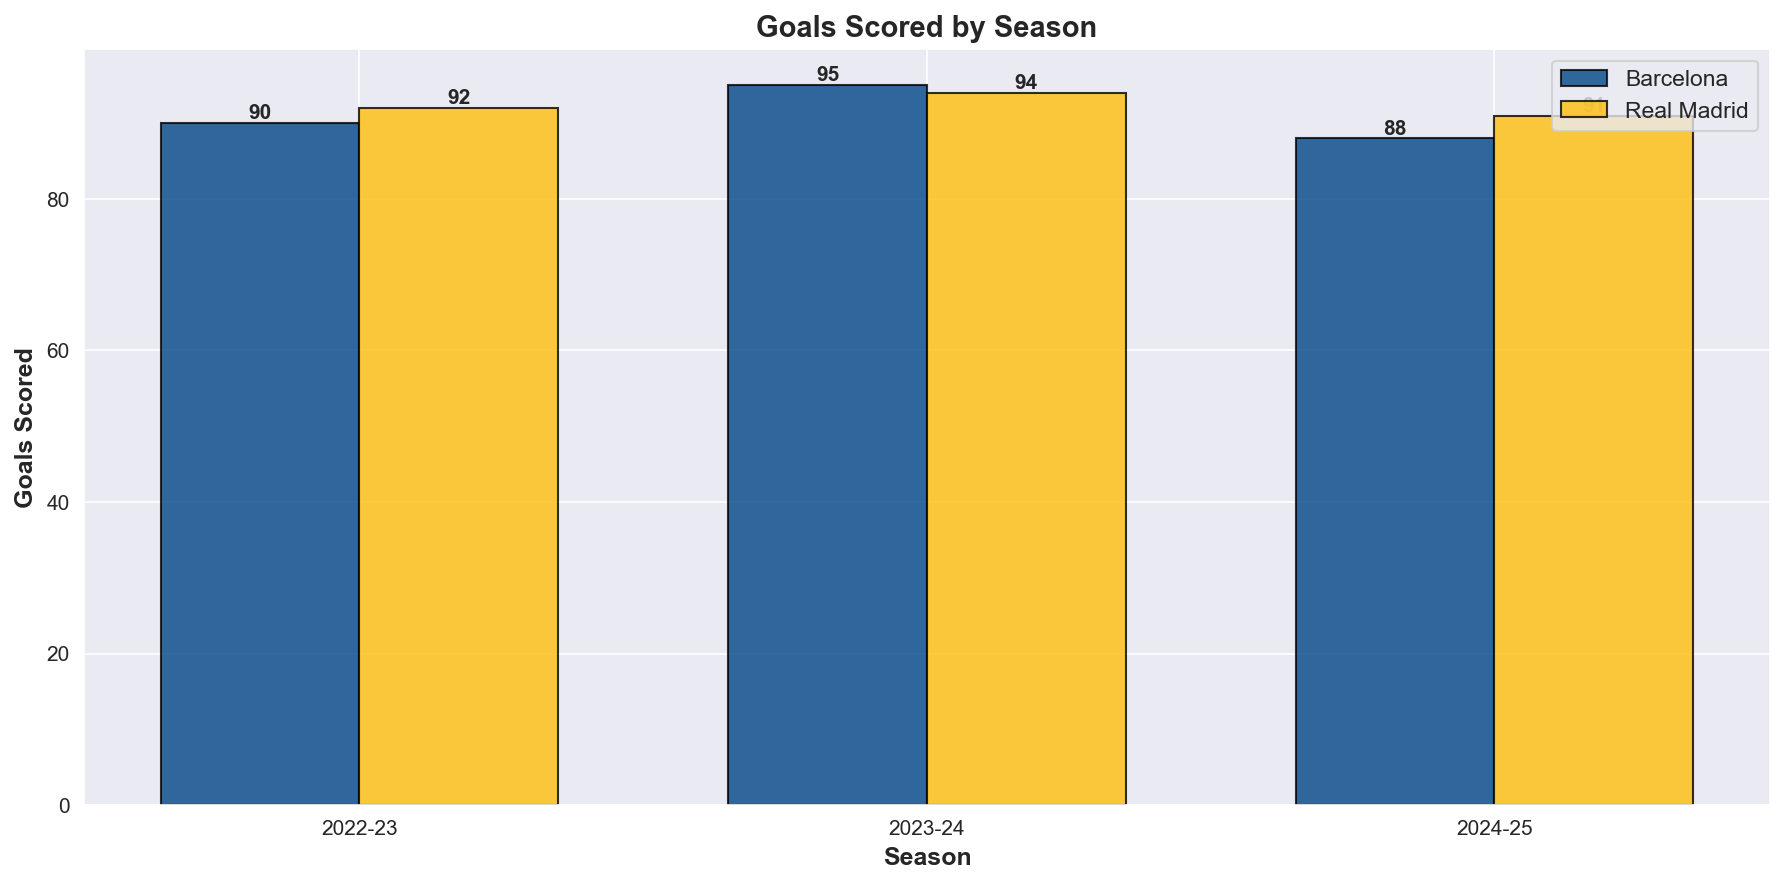
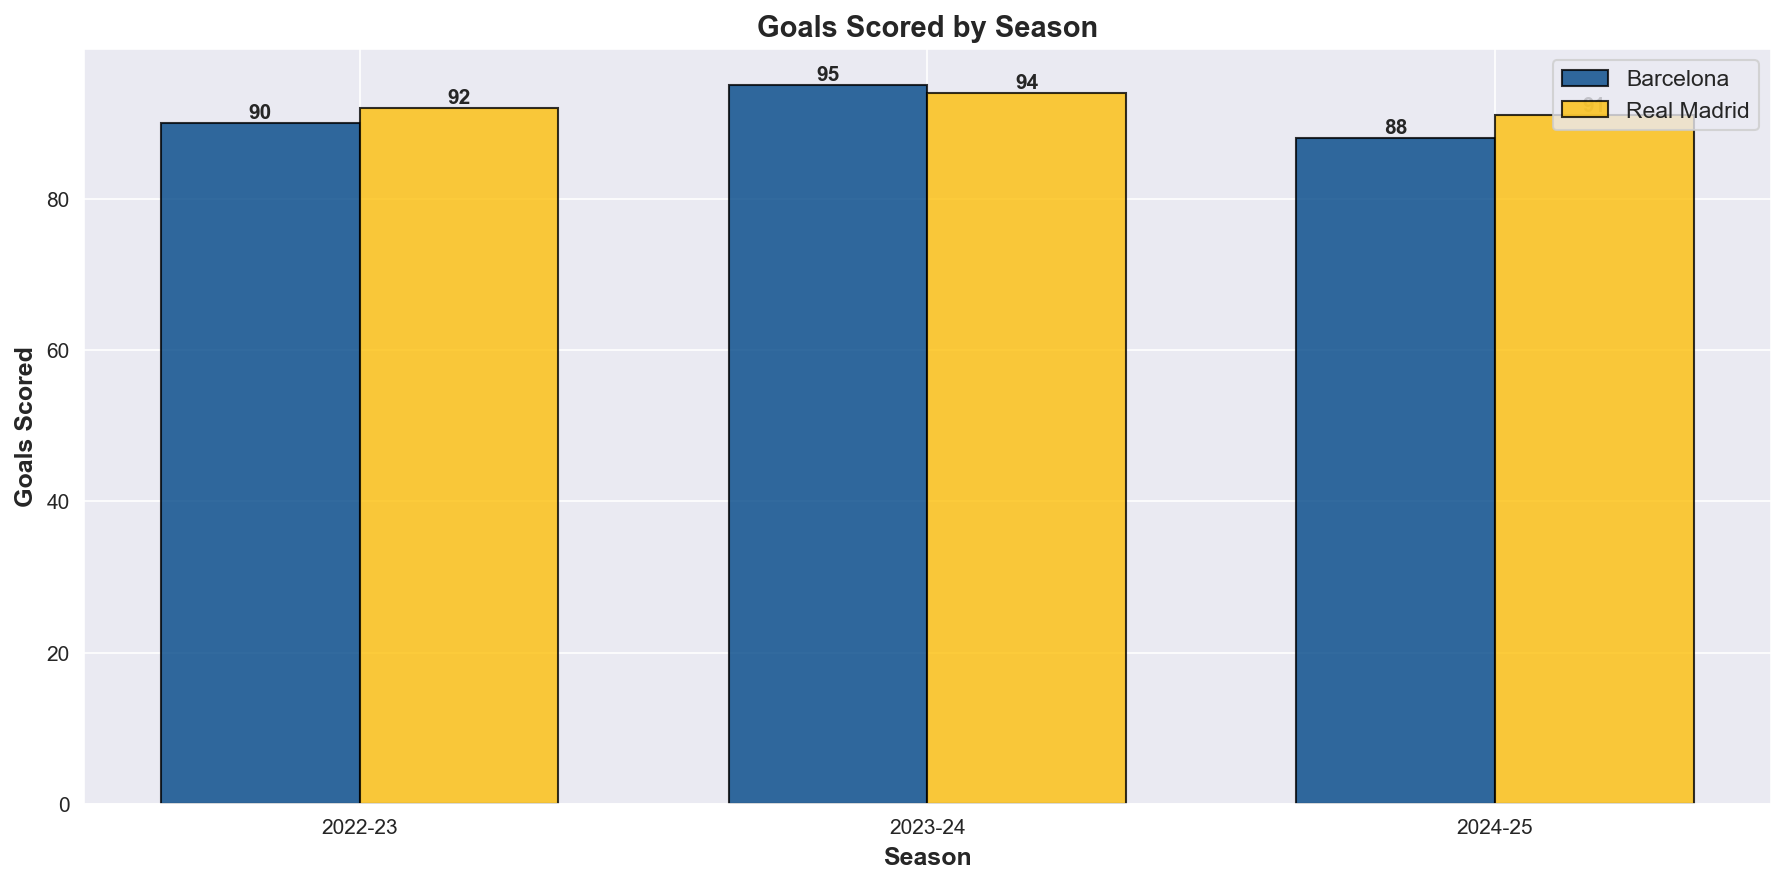
main func

diff --git a/run_analysis.py b/run_analysis.py
@@ -4,6 +4,12 @@ Barcelona vs Real Madrid Analysis Script
 Runs the complete analysis from the notebook
 """
 
+#!/usr/bin/env python3
+"""
+Barcelona vs Real Madrid Analysis Script
+Runs the complete analysis from the notebook
+"""
+
 import sys
 import os
 sys.path.append(os.path.join(os.path.dirname(__file__), 'src'))
@@ -107,3 +113,6 @@ def main():
     print("1. View the generated PNG charts in your project folder")
     print("2. For the interactive dashboard, run the notebook in Jupyter")
     print("3. To get real data, check the README for API sources")
+
+if __name__ == "__main__":
+    main()
